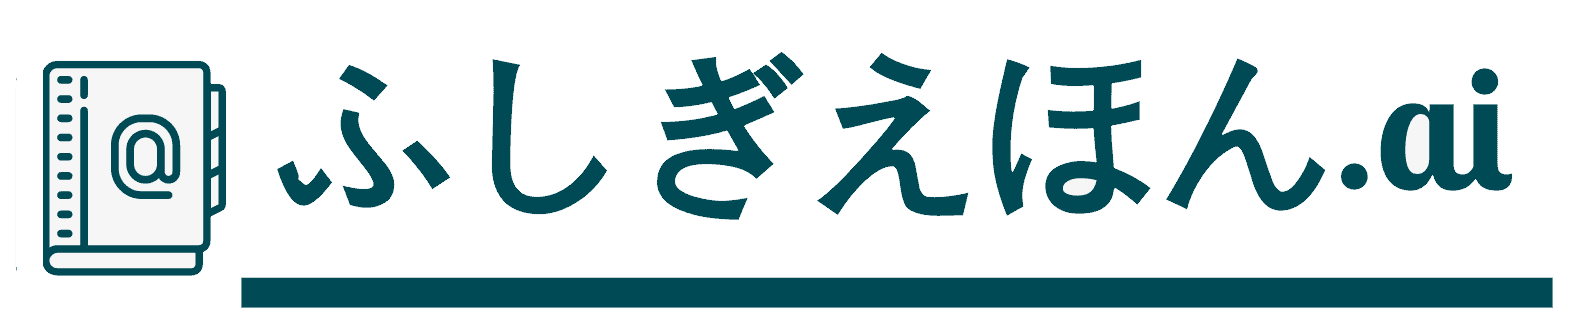
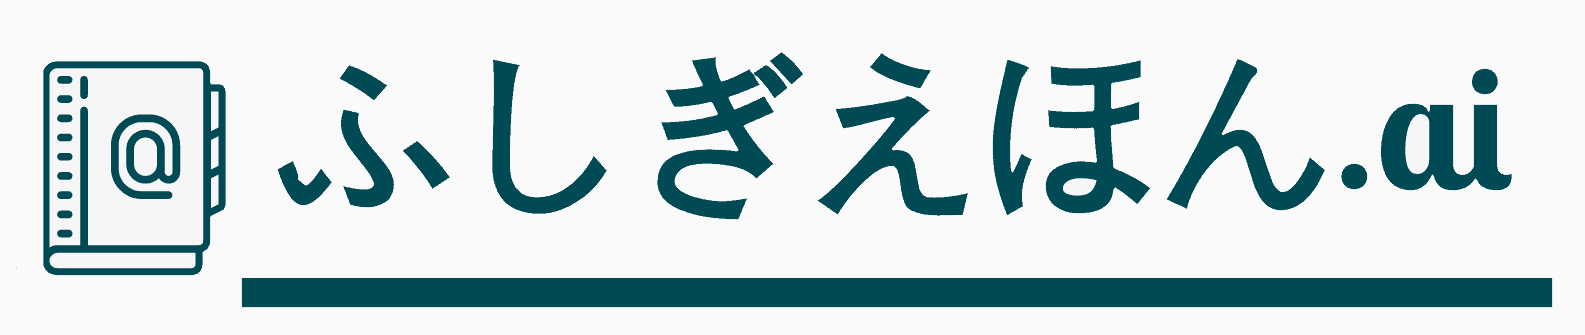
mod

Changed region(s): [[0.4328, 0.3881, 0.4637, 0.4179]]

diff --git a/modules/utils.py b/modules/utils.py
@@ -63,7 +63,7 @@ def get_images(titles):
 
 def create_text_img(text, width, height, font_size, margin=20):
     # Create image object with white background
-    im = Image.new("RGB", (width, height), (255, 255, 255))
+    im = Image.new("RGB", (width, height), "#fafafa")
     draw = ImageDraw.Draw(im)
 
     # Load a font that supports Japanese
@@ -107,12 +107,12 @@ def create_movie_and_pdf(book_info):
         if title_image_bytes:
             title_image = Image.open(io.BytesIO(title_image_bytes))
         else:
-            title_image = Image.new("RGB", (512, 512), (255, 255, 255))
+            title_image = Image.new("RGB", (512, 512), "#fafafa")
 
         title_dst = Image.new(
             "RGB",
             (title_image.width + title_text_img.width, title_image.height),
-            (255, 255, 255),
+            "#fafafa",
         )
         title_dst.paste(title_image, (0, 0))
         title_dst.paste(title_text_img, (title_image.width, 0))
@@ -128,7 +128,7 @@ def create_movie_and_pdf(book_info):
         end_dst = Image.new(
             "RGB",
             (1024, 512),
-            (255, 255, 255),
+            "#fafafa",
         )
         end_dst.paste(
             end_image, (0 + end_image.width // 2, 256 - end_image.height // 2)
@@ -143,7 +143,7 @@ def create_movie_and_pdf(book_info):
             if image:
                 page_image = Image.open(io.BytesIO(image))
             else:
-                page_image = Image.new("RGB", (512, 512), (255, 255, 255))
+                page_image = Image.new("RGB", (512, 512), "#fafafa")
 
             page_image = page_image.resize((512, 512))
             dst = Image.new(

diff --git a/modules/create.py b/modules/create.py
@@ -68,7 +68,6 @@ def view_edit(mode):
                 key="alert_dialog_book",
             ):
                 delete_book(st.session_state.tales["title"])
-                st.rerun()
 
         with st.expander("キャラクター", expanded=True):
             chara_col1, chara_col2 = st.columns(2)
@@ -440,6 +439,7 @@ def delete_book(title):
         bucket_name = "story-user-data"
         s3_delete_folder(bucket_name, f"{st.session_state.user_id}/book_info/{title}")
         st.toast(f"{title}を削除しました")
+        st.rerun()
     else:
         st.toast("タイトルを入力してください")
 
